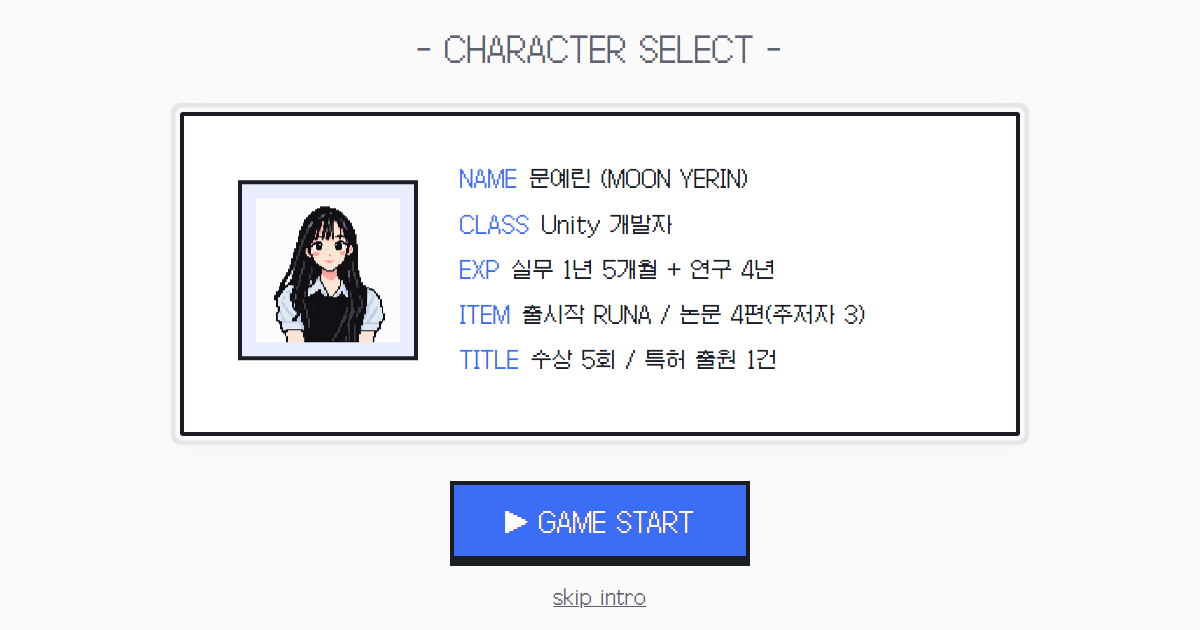
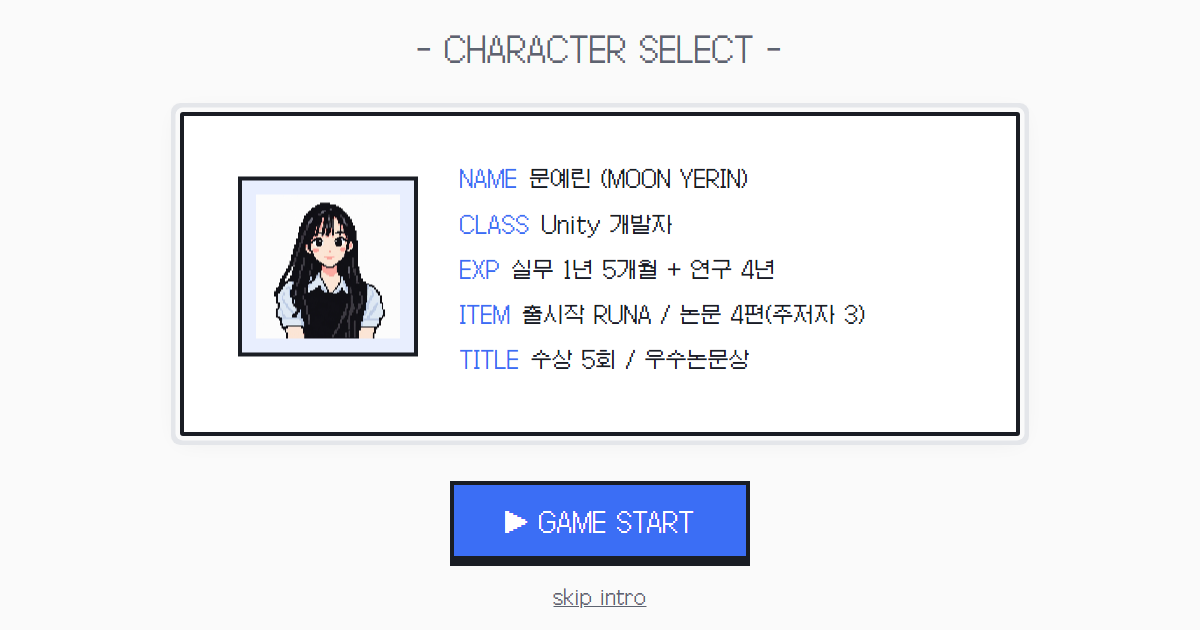
인트로 TITLE에서 특허 출원 문구 제거, 미리보기 이미지 재캡처

Changed region(s): [[0.185, 0.2714, 0.37, 0.573], [0.5242, 0.5429, 0.6475, 0.6032]]

diff --git a/index.html b/index.html
@@ -10,7 +10,7 @@
 <meta property="og:url" content="https://dpfls1211.github.io/">
 <meta property="og:title" content="문예린 — Unity 개발자 포트폴리오">
 <meta property="og:description" content="플랫폼 실무부터 게임까지 만드는 Unity 개발자 · 출시작 RUNA · 1인 개발 안치당 전시관">
-<meta property="og:image" content="https://dpfls1211.github.io/img/og-intro.png?v=1">
+<meta property="og:image" content="https://dpfls1211.github.io/img/og-intro.png?v=2">
 <meta property="og:image:width" content="1200">
 <meta property="og:image:height" content="630">
 <meta name="twitter:card" content="summary_large_image">
@@ -261,7 +261,7 @@
       <div class="row"><span class="k">CLASS</span><span data-t="Unity 개발자"></span></div>
       <div class="row"><span class="k">EXP</span><span data-t="실무 1년 5개월 + 연구 4년"></span></div>
       <div class="row"><span class="k">ITEM</span><span data-t="출시작 RUNA / 논문 4편(주저자 3)"></span></div>
-      <div class="row"><span class="k">TITLE</span><span data-t="수상 5회 / 특허 출원 1건"></span></div>
+      <div class="row"><span class="k">TITLE</span><span data-t="수상 5회 / 우수논문상"></span></div>
     </div>
   </div>
   <button id="start-btn" class="px">▶ GAME START</button>
